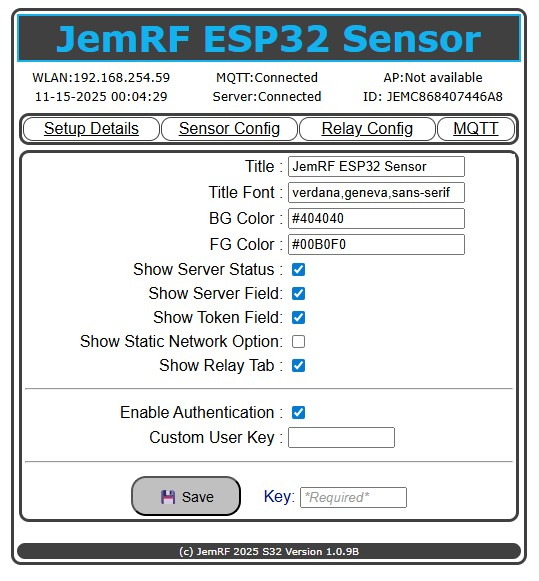
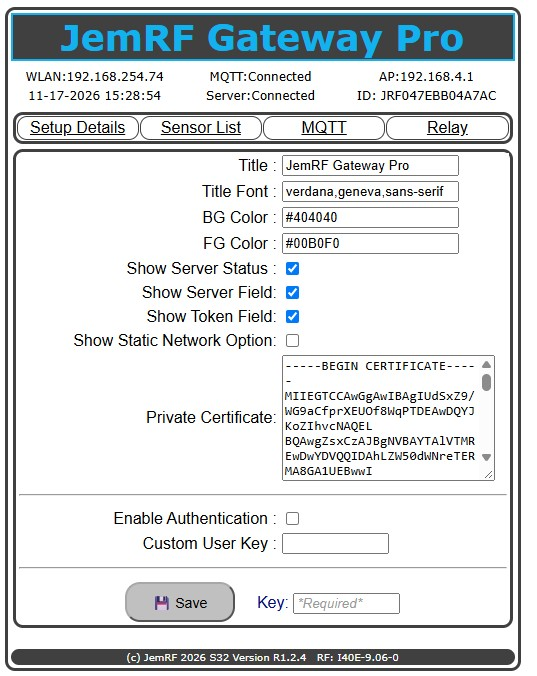
update whitelabel, add new certificate option and details on resetting the custom key

diff --git a/pages/wifidocs/wifi32s-whitelabel.md b/pages/wifidocs/wifi32s-whitelabel.md
@@ -22,6 +22,7 @@ Option allow:
 6. Enable Authentication on Setup, Sensor Config and MQTT control panels
 7. Enable or hide the Relay Config Tab if not needed(if device has option).
 8. Enter a Custom User Key (Must be 10 characters)
+9. Option for a private or Self-Signed SSL Certificate.
 
 At the bottom is the field for the Authentication Key.
 
@@ -36,6 +37,7 @@ The image below shows the White Label Option page.
 
 {% include image.html file="jemrfesp32whitelabel.jpg" alt="White Label Options"%}
 
+#### Display Options
 The next image shows all the different fields that can be shown or hidden using Whitelabel option 1-7.
 
 {% include image.html file="jemrf32sensorsetup-mu.jpg" alt="White Label Options"%}
@@ -46,10 +48,33 @@ The image below displays the default Setup Details tab, which includes all avail
 With all the options set to hide, the Setup Details tab is set to minimal, and the Relay Tab is gone
 {% include image.html file="jemrf32sensorsetupmin.jpg" alt="Minimun Setup Options"%}
 
-The Key field will turn Yellow when there is a change that needs the Key to authorize. When the correct Key is entered and you click off the Key field it will be validated and turn Green if Ok and Red if incorrec.
+
+#### Security Key
+The sensor has the option to prevent accidental changes to the settings. That is done enabling the "Enable Authentication" check box.
+
+When enabled, the Key field will turn Yellow when there is a change that needs the Key to authorize. When the correct Key is entered and you click off the Key field it will be validated and turn Green if Ok and Red if incorrect.
+
 
 {% include image.html file="jemrfesp32whitelabel2.jpg" alt="White Label Options"%}
 
+You have the option to use the default key or enter your own Custom User Key.
+The default Key is the two digits for the month, day, the last two digits of the year and the first four characters after JEM or JRF. You can see in this example, the Green Key field has the correct value.
 
 {% include image.html file="jemrfesp32whitelabel3.jpg" alt="White Label Options"%}
+
+#### Private Certificate
+The private Certificate file provides the option to upload one or two additional Security Certificates.
+This provides options to use third party certificates or self generated certificates.
+
+Certificates must be in plain text format with Begin Certificate at the top and End Certificate at the bottom.
+The standard for plain text is a ".pem" file extension.
+
+{% include image.html file="jemrfesp32whitelabel.jpg" alt="White Label Options"%}
+
+#### Reset Custom Key
+If you enter a Custom User Key and forget it, you can get a temporary key by contacting Sales @ jemrf.com.  Sales will provide a link to the Generate a Temporary Access code.
+
+Here is what the generator page looks like. Copy and paste the time from the sensor in the Date/Time field and copy and paste the "ID" in the upper right on the sensor page into the "Device ID" field. The temp key is good for the current hour. Meaning if the time is 12:55:00 the key will only be good for 5 minutes. If the time is 12:01:00 the key will be good for 59 minutes.
+
+{% include image.html file="getmastercode.jpg" alt="White Label Options"%}
 
